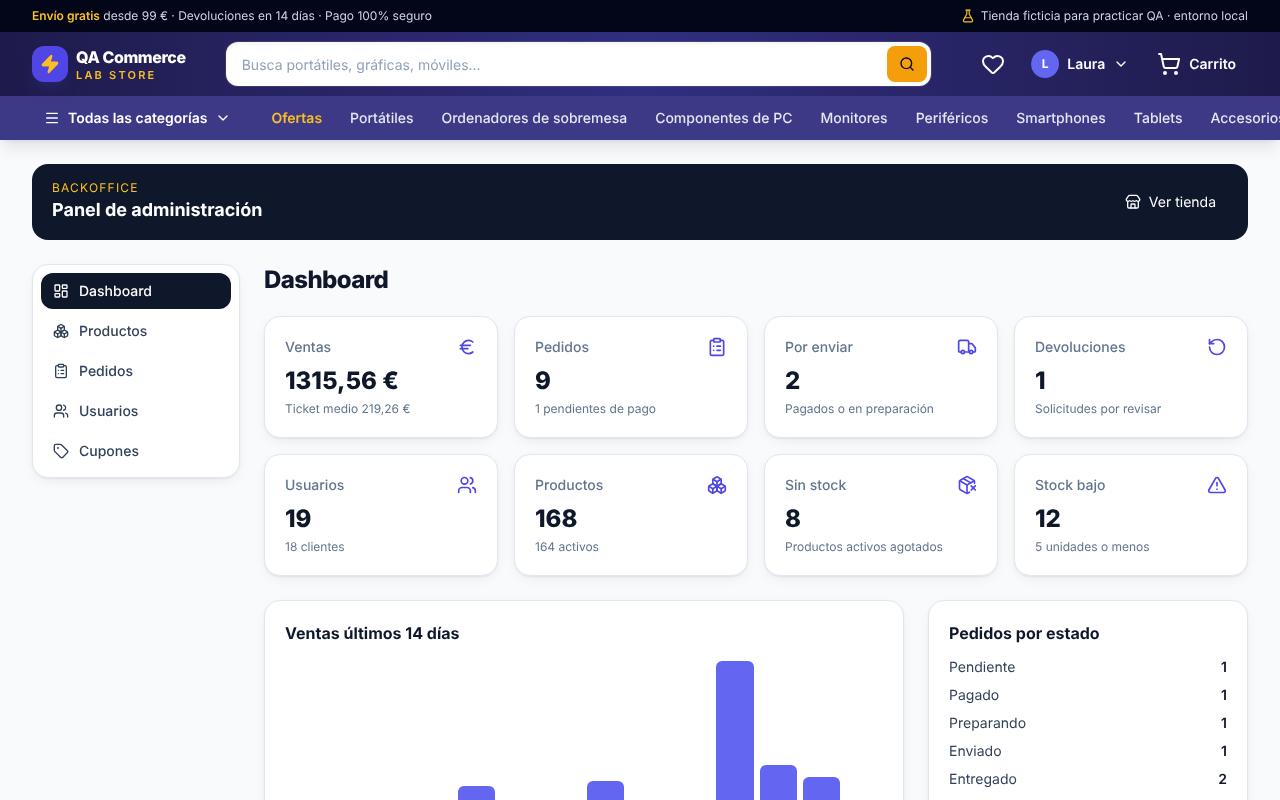
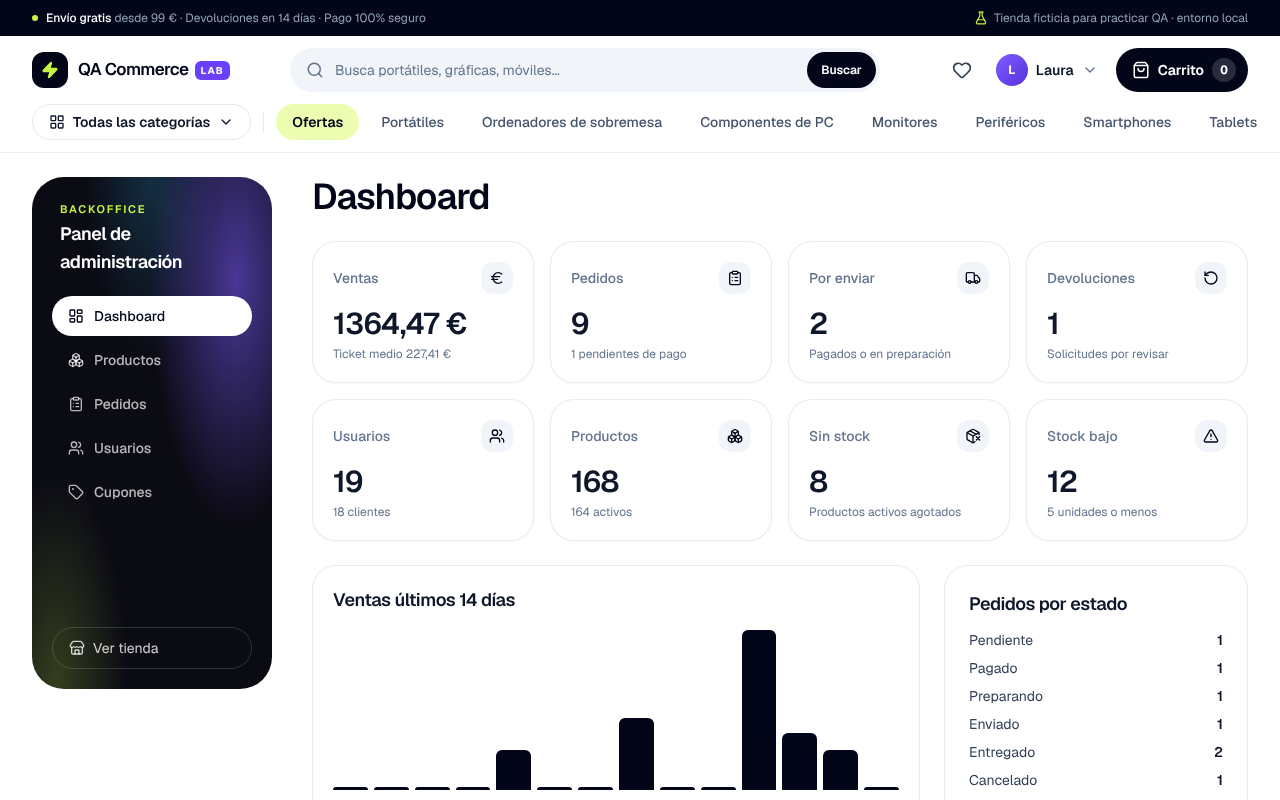
docs: real product names in examples and refreshed screenshots
- Search and brand-filter examples use the new catalog (asus, lenovo, macbook)
- Special-inventory table lists SKU, id and product name
- Trademark notice: real brand/model names are illustrative, data is fictional
- Screenshots regenerated with the new design

Claude-Session: https://claude.ai/code/session_01J9gd9acXP91qCk9Afh6Hp7

diff --git a/docs/TESTING.md b/docs/TESTING.md
@@ -80,18 +80,19 @@ Pedidos de `orders@qacommerce.test`:
 
 ### Catálogo
 
-- 16 categorías (2 niveles: *Componentes de PC* y *Periféricos* agrupan subcategorías), 20 marcas **ficticias**, **168 productos** (164 activos).
+- 16 categorías (2 niveles: *Componentes de PC* y *Periféricos* agrupan subcategorías), 39 marcas reales, **168 productos** (164 activos) con nombres de modelos reales. Precios, stock, valoraciones, reseñas e imágenes son ficticios (las imágenes son ilustraciones SVG genéricas generadas por la API).
 - IDs por categoría: Portátiles 1-12 · Sobremesa 13-24 · Gráficas 25-36 · Procesadores 37-48 · Placas 49-60 · RAM 61-72 · SSD 73-84 · Monitores 85-96 · Teclados 97-108 · Ratones 109-120 · Auriculares 121-132 · Smartphones 133-144 · Tablets 145-156 · Accesorios 157-168.
-- SKU: `QCL-<CAT>-<NNN>` (ej. `QCL-LAP-001` = id 1 = *Nébula Air 13*).
+- SKU: `QCL-<CAT>-<NNN>` (ej. `QCL-LAP-001` = id 1 = *Apple MacBook Air 13" M3 16 GB 256 GB*, slug `apple-macbook-air-13-m3-16-gb-256-gb`).
+- Usa siempre el **SKU o el id** como identificador en las pruebas: los nombres de producto pueden revisarse en futuras versiones del seed.
 
 Productos con inventario especial (documentado y estable):
 
-| Situación | SKU (id) |
+| Situación | SKU (id) · producto |
 |---|---|
-| Agotados (stock 0) | QCL-GPU-003 (27), QCL-LAP-006 (6), QCL-CPU-010 (46), QCL-MON-007 (91), QCL-PHN-010 (142), QCL-TAB-006 (150), QCL-AUD-008 (128), QCL-KBD-010 (106) |
-| Una sola unidad | QCL-GPU-006 (30), QCL-LAP-004 (4), QCL-SSD-007 (79), QCL-PHN-003 (135) |
-| Stock bajo (2-5) | QCL-GPU-005 (29), QCL-CPU-005 (41), QCL-MON-003 (87), QCL-DSK-003 (15), QCL-TAB-012, QCL-MBD-001, QCL-RAM-008, QCL-AUD-002 |
-| Descatalogados (`isActive=false`) | QCL-DSK-010 (22), QCL-RAM-004 (64), QCL-MOU-001 (109), QCL-PHN-005 (137) |
+| Agotados (stock 0) | QCL-GPU-003 (27) *Gigabyte GeForce RTX 4070 Super Windforce OC 12 GB* · QCL-LAP-006 (6) *Lenovo IdeaPad Slim 5 14AHP9 Ryzen 7* · QCL-CPU-010 (46) *AMD Ryzen 7 9800X3D* · QCL-MON-007 (91) *Samsung Odyssey Neo G8 32"* · QCL-PHN-010 (142) *Samsung Galaxy Z Fold6 512 GB* · QCL-TAB-006 (150) *Samsung Galaxy Tab S10 Ultra 256 GB* · QCL-AUD-008 (128) *SteelSeries Arctis Nova Pro Wireless* · QCL-KBD-010 (106) *Keychron Q1 Pro* |
+| Una sola unidad | QCL-GPU-006 (30) *ASUS ROG Astral GeForce RTX 5090 OC 32 GB* · QCL-LAP-004 (4) *ASUS Zenbook 14 OLED UX3405MA* · QCL-SSD-007 (79) *Crucial T705 2 TB* · QCL-PHN-003 (135) *Apple iPhone 16 Pro Max 512 GB* |
+| Stock bajo (2-5) | QCL-GPU-005 (29) *MSI GeForce RTX 5080 Gaming Trio OC* · QCL-CPU-005 (41) *Intel Core Ultra 9 285K* · QCL-MON-003 (87) *LG UltraGear 27GS95QE* · QCL-DSK-003 (15) *Apple Mac Studio M4 Max* · QCL-TAB-012 (156) · QCL-MBD-001 (49) · QCL-RAM-008 (68) · QCL-AUD-002 (122) |
+| Descatalogados (`isActive=false`) | QCL-DSK-010 (22) *Lenovo IdeaCentre AIO 3 27* · QCL-RAM-004 (64) *Kingston FURY Beast DDR4 8 GB* · QCL-MOU-001 (109) *Logitech M90* · QCL-PHN-005 (137) *Samsung Galaxy A16 128 GB* |
 
 `GET /api/test/info` devuelve esta misma información en JSON.
 

diff --git a/docs/FUNCTIONAL.md b/docs/FUNCTIONAL.md
@@ -41,7 +41,7 @@ Un usuario **desactivado** no puede iniciar sesión (`403 ACCOUNT_DISABLED`) y s
 - **Disponibilidad**: `IN_STOCK` (>5), `LOW_STOCK` (1-5, "Últimas unidades"), `OUT_OF_STOCK` (0), `DISCONTINUED`.
 - **Descuento**: si hay precio anterior mayor que el actual, `discountPercent = round((1 - precio/anterior) × 100)`.
 - **Novedad**: creado hace menos de 30 días.
-- **Búsqueda**: insensible a mayúsculas y tildes; todas las palabras deben aparecer en nombre, marca, categoría o SKU (`portatil nebula` encuentra "Nébula Air 13").
+- **Búsqueda**: insensible a mayúsculas y tildes; todas las palabras deben aparecer en nombre, marca, categoría o SKU (`portatil asus` encuentra los portátiles ASUS y también el monitor *ASUS ZenScreen MB166C 15,6" portátil*; `macbook` encuentra los dos MacBook).
 - **Filtros combinables**: categoría (las padre incluyen subcategorías), marcas (varias), rango de precio, solo en stock, solo ofertas, valoración mínima, destacados. Rango de precio inválido (mín > máx) → `400`.
 - **Ordenación**: relevancia (destacados y más vendidos), precio ↑/↓, popularidad (ventas), valoración, novedades, mayor descuento, nombre. Siempre con desempate determinista.
 - **Facetas**: marcas con recuento (calculadas sin el propio filtro de marca), categorías, rango de precios, nº en stock y nº en oferta.

diff --git a/README.md b/README.md
@@ -4,7 +4,7 @@
 
 No es una demo superficial: frontend, backend, base de datos, API REST documentada con OpenAPI, autenticación con sesiones revocables, roles, catálogo de 168 productos, carrito, cupones, checkout transaccional, pagos simulados, pedidos con máquina de estados, área privada, panel de administración e **infraestructura específica para testing** (datos deterministas, escenarios, aislamiento por ejecución, simulación de fallos y limpieza).
 
-> Todos los productos, marcas, precios, usuarios y pagos son **ficticios**. Nunca introduzcas datos reales.
+> El catálogo usa nombres de marcas y modelos **reales** como referencia, pero precios, stock, reseñas, usuarios, pedidos y pagos son **ficticios**. Las marcas pertenecen a sus respectivos propietarios; este proyecto no tiene relación con ellas ni actividad comercial. Nunca introduzcas datos reales (tarjetas, direcciones, contraseñas).
 
 ![Home](docs/images/home.png)
 

diff --git a/docs/API.md b/docs/API.md
@@ -266,7 +266,7 @@ Generado a partir de la especificación OpenAPI. 🔒 = acepta o exige `Authoriz
 API=http://localhost:3001/api
 
 # Buscar portátiles en stock de 2 marcas, del más barato al más caro
-curl -s "$API/products?category=portatiles&brand=nebula,arcadia&inStock=true&sort=price_asc&page=1&pageSize=12"
+curl -s "$API/products?category=portatiles&brand=asus,lenovo&inStock=true&sort=price_asc&page=1&pageSize=12"
 
 # Login y uso del token
 TOKEN=$(curl -s -X POST $API/auth/login -H 'Content-Type: application/json' \
